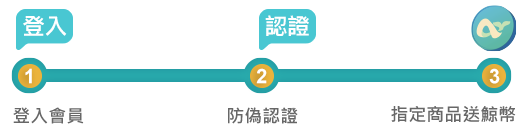
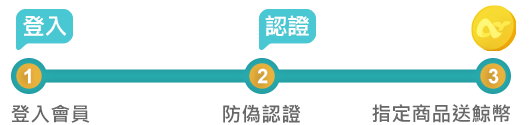
新增兌換鯨幣的BN

diff --git a/discern_start.html b/discern_start.html
@@ -71,7 +71,7 @@
                     <div class="clear"></div>
                 </div>
                 <div class="col-md-8 col-md-offset-2">
-                    <div class="surveybanner"><img src="images/survey100.png">
+                    <div class="surveybanner"><img src="images/BWcoin.jpg">
                     </div>
                 </div>
             </div>
